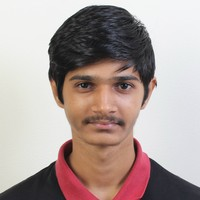
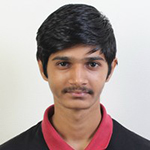
Added Resume

diff --git a/assets/css/main.css b/assets/css/main.css
@@ -736,7 +736,7 @@
 				display: block;
 				margin: 0 auto;
 				border-radius: 100%;
-				box-shadow: 0 0 0 1.5em #ffffff;
+				box-shadow: 0 0 0 0.2em #ffffff;
 			}
 
 			#main .avatar:before {
